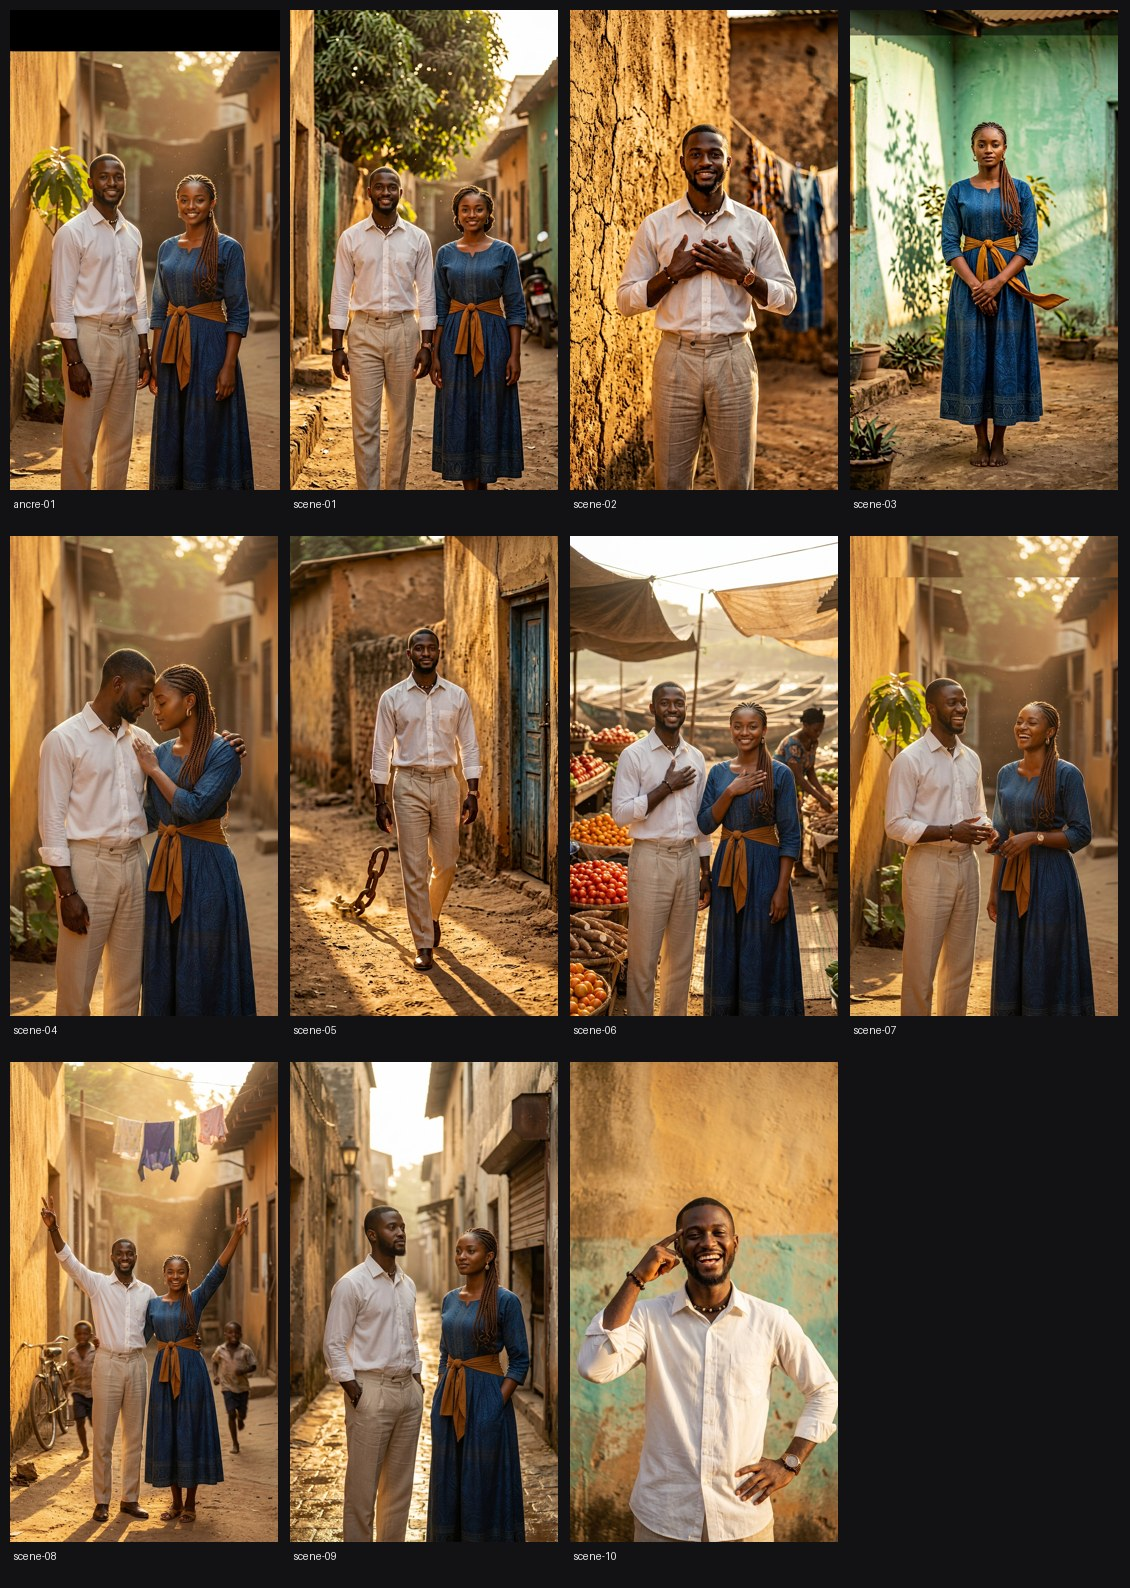
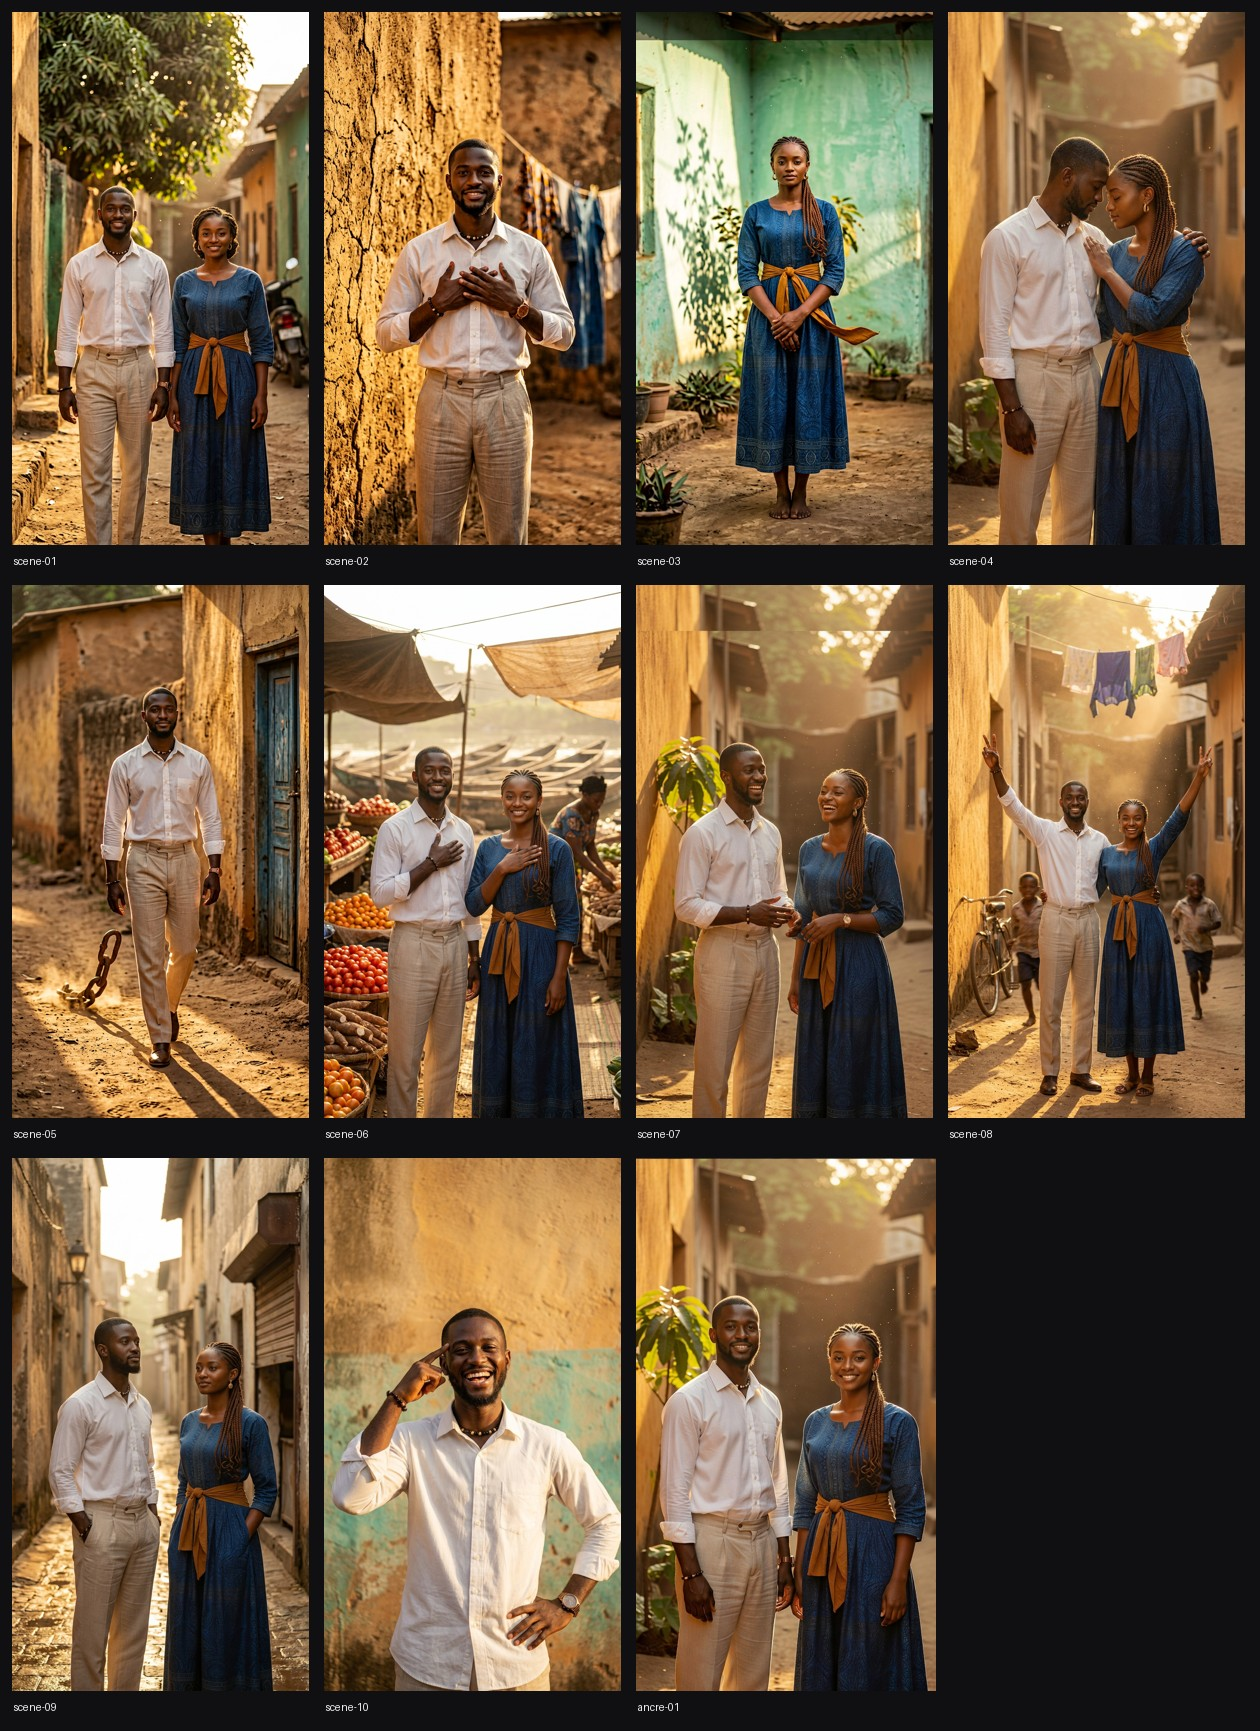
Gbètché vivi: controle salve 1 + ancre reparee (bande noire 109px retiree) + planche

diff --git a/productions/gbetche-vivi/ANCRE.md b/productions/gbetche-vivi/ANCRE.md
@@ -26,7 +26,7 @@ l'image ne doit donc être ni miséreuse ni festive à outrance — **digne, cha
 > Lui : jeune homme béninois, teint brun profond, visage ovale, barbe courte taillée, cheveux très courts, chemise en coton blanc cassé fermée jusqu'au col, manches longues retroussées aux poignets, pantalon en lin sable, collier de petites perles noires, montre bronze au poignet gauche.
 > Elle : jeune femme béninoise, teint brun cuivré, visage rond, cheveux tressés en vanilles basses ramenées sur l'épaule gauche, robe longue en wax indigo à manches trois-quarts descendant jusqu'aux mollets, boucles d'oreilles dorées rondes, foulard ocre noué à la taille.
 
-Fichier ancre de référence : `personnages/ancre-01.png` (720×1280, ratio 9:16 exact). **Toute génération repart de ce fichier via `images=`.**
+Fichier ancre de référence : `personnages/ancre-01.png` — **1080×1920 natif, bande noire de 109 px retirée** (voir §7). **Toute génération repart de ce fichier via `images=`.**
 
 ---
 
@@ -91,6 +91,19 @@ Découpe : 30 segments, moyenne **6,30 s**, aucune coupe d'image en milieu de ve
 ## 5 — À livrer (rappel v5.7)
 
 9:16 1080×1920 · Titre · Captions (légende courte + code) · 10 à 13 hashtags · déclaration IA (visuels générés par IA) · master 48 kHz MP3 320 kb/s loudnorm −14 LUFS / −1,5 dBTP avec ID3 (APIC + USLT propre) · commandes Termux une ligne par fichier, `;` en séparateur, hash du commit **après** push.
+
+## 7 — Contrôles de la salve 1 (mesurés, pas déclarés)
+
+Méthode : lecture PNG directe, bande noire = lignes dont la luminance max < 10 ; densité de contours dans les bandes hautes (8 %) et basses (18 %).
+
+| Fichier | Ratio | Taille | Bandes noires h/b | Remarque |
+|---|---|---|---|---|
+| `ancre-01.png` | 0,5625 | **1080×1920** | 0 / 0 | **109 px de noir en haut (8,5 %) détectés → réparés** : bande supprimée, puis 61 px rognés sur chaque côté (densité de contours des lisères 4,4 contre 6,9 au centre → du fond, aucun personnage touché). Original conservé : `ancre-01-brut.png`. |
+| `scene-01` → `scene-10` | 0,5581 | 768×1376 | 0 / 0 | Aucune bande noire, aucun recadrage nécessaire. Écart de 0,8 % avec le 9:16 absorbé par un étirement vertical (`scale` pur, jamais de `crop`). |
+
+- Passage vérifié dans ce sandbox : `scale=1080:1920:flags=lanczos` sur scene-01 / 05 / 10 → sortie 1080×1920 exacte, **rien de rogné en haut ni en bas** (le contrôle que l'artiste demandait).
+- Plans où les jambes sortent du cadre **par le cadrage interne** (S02, S07, S09, S10 : plan taille ou genoux) : conforme à v5.7 (plan moyen accepté), mais si l'artiste veut du corps entier partout, on régénère ces quatre slots en plan large.
+- Consistance des personnages sur les 10 scènes : même homme (chemise blanc cassé, lin sable, perles noires), même femme (wax indigo, foulard ocre, vanilles basses) — aucune dérive de visage ou de tenue relevée sur la planche.
 
 ## 6 — Prochain tour
 
